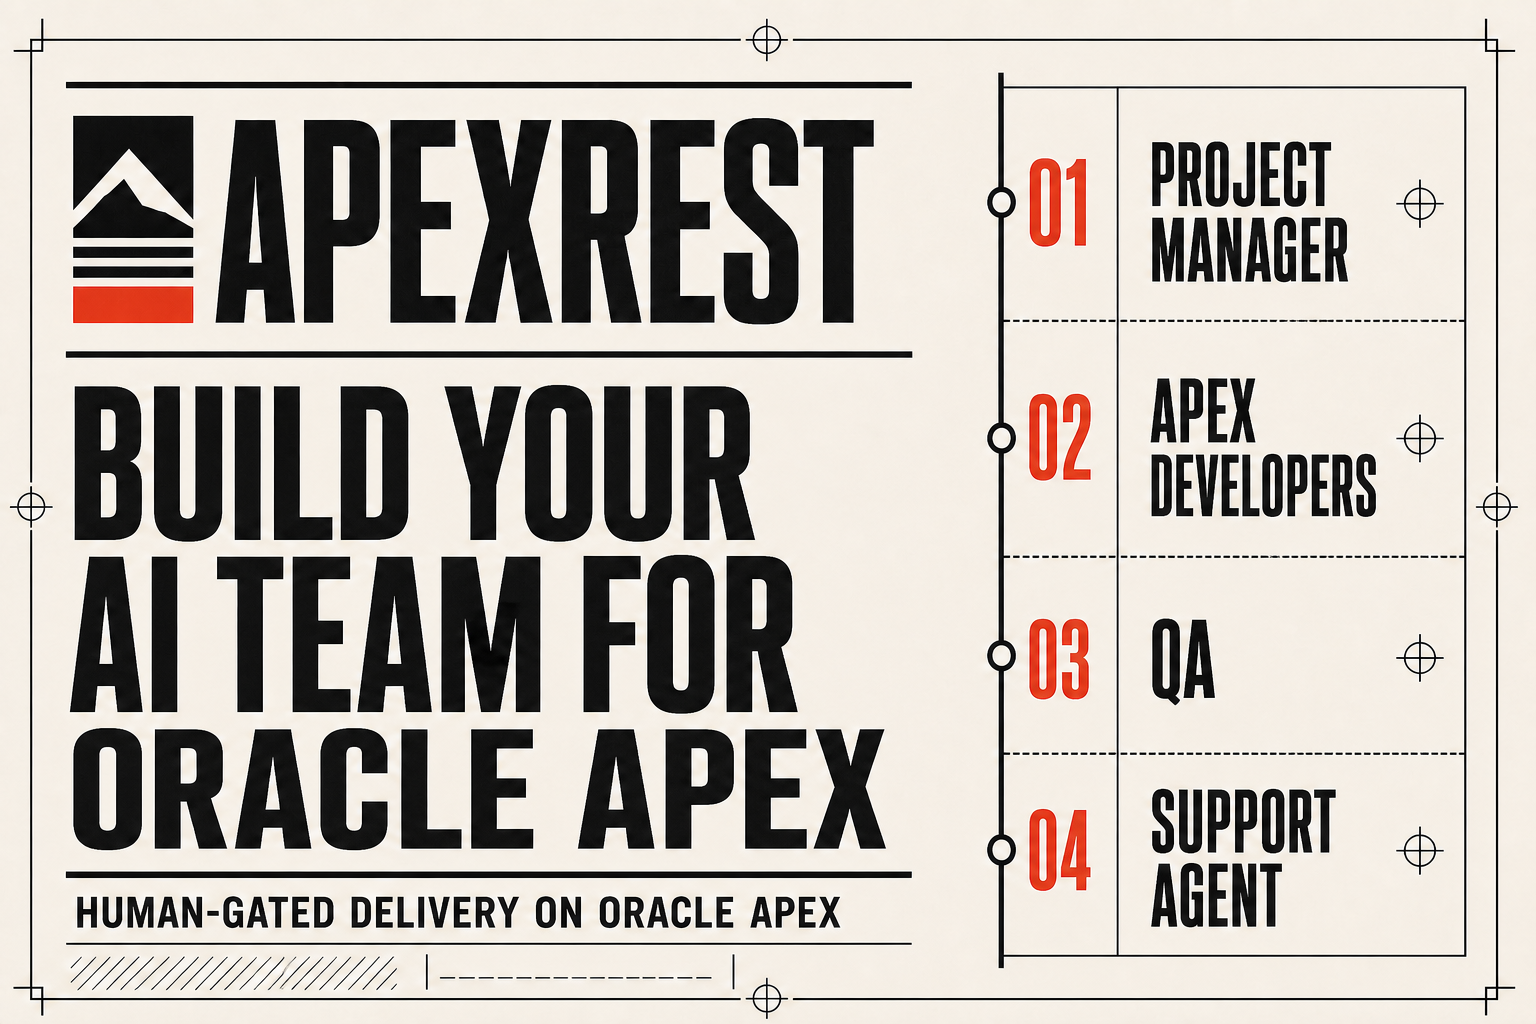
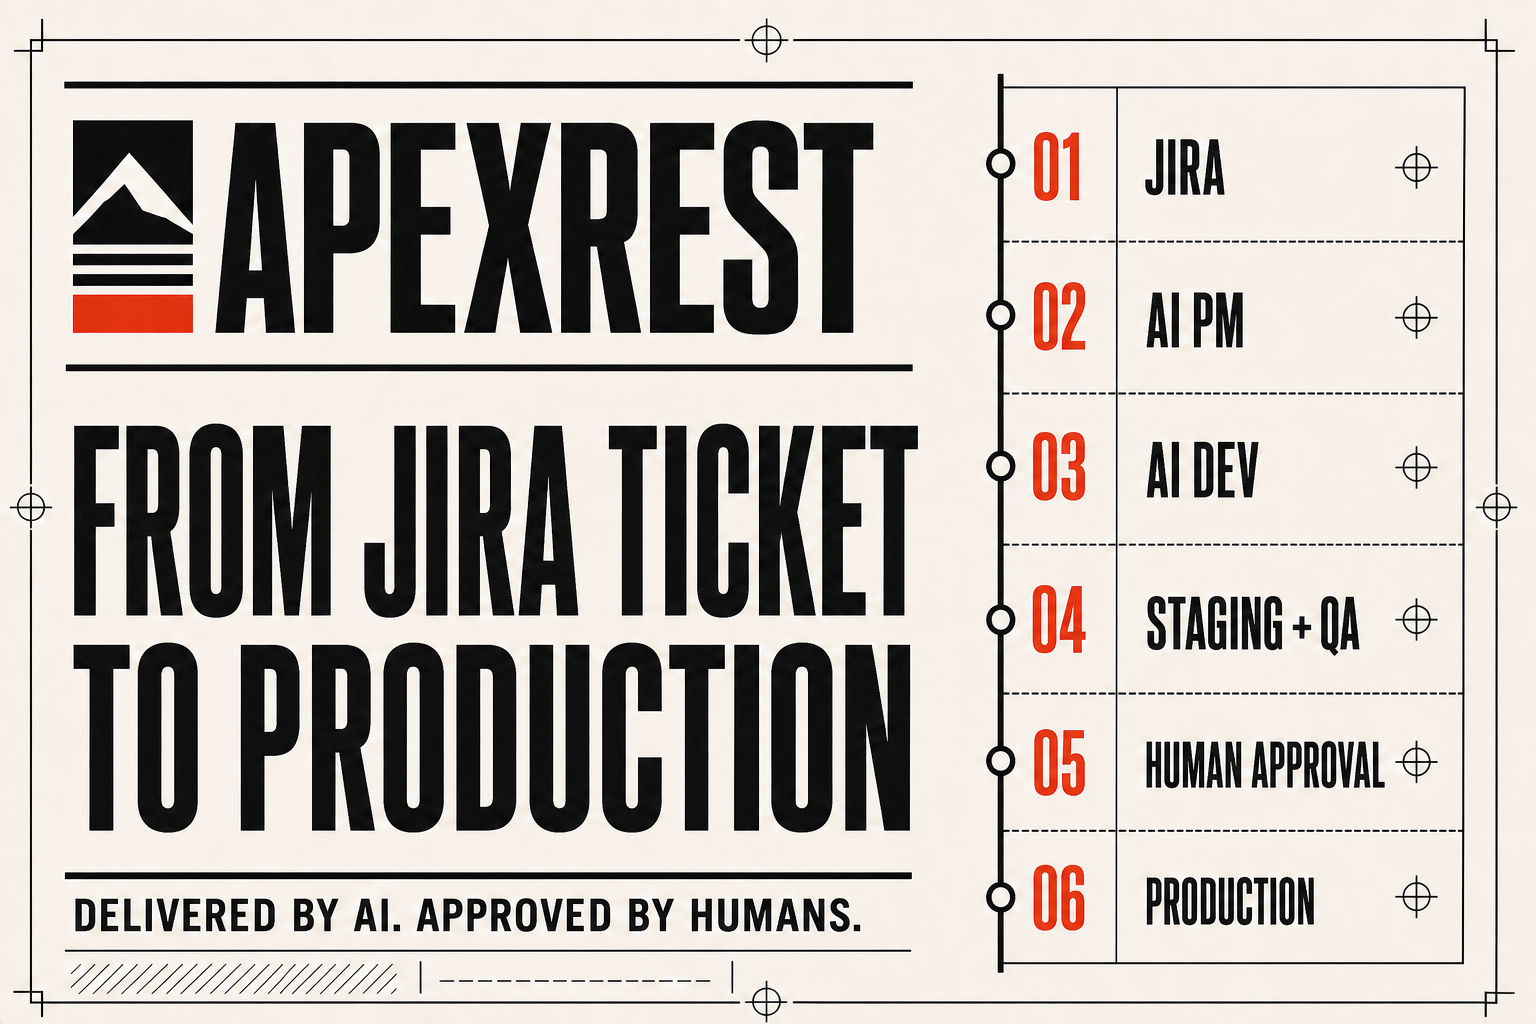
Refocus landing page on Jira-to-production AI delivery

diff --git a/index.html b/index.html
@@ -3,8 +3,8 @@
 <head>
   <meta charset="utf-8">
   <meta name="viewport" content="width=device-width, initial-scale=1">
-  <title>APEXREST — Build your AI team for Oracle APEX</title>
-  <meta name="description" content="APEXREST helps Oracle APEX customers build an AI team with a Project Manager, APEX Developers, QA, and a Support Agent—working through compiler-backed checks and explicit human release gates.">
+  <title>APEXREST — From Jira ticket to production with an AI delivery team</title>
+  <meta name="description" content="Describe an Oracle APEX change in Jira. An AI delivery team builds it, validates it, tests it on staging, and prepares a human-approved production release.">
   <meta name="robots" content="index, follow, max-image-preview:large">
   <meta name="theme-color" content="#f2efe7">
   <link rel="canonical" href="https://apex.rest/">
@@ -12,16 +12,16 @@
   <meta property="og:type" content="website">
   <meta property="og:url" content="https://apex.rest/">
   <meta property="og:site_name" content="APEXREST">
-  <meta property="og:title" content="Build your AI team for Oracle APEX">
-  <meta property="og:description" content="Project Manager. APEX Developers. QA. Support Agent. One AI team, working through compiler-backed checks and explicit human release gates.">
+  <meta property="og:title" content="From Jira ticket to production—with an AI delivery team">
+  <meta property="og:description" content="Deterministic vibe coding for enterprise applications. AI-operated delivery with human-controlled release.">
   <meta property="og:image" content="https://apex.rest/assets/og.png">
   <meta property="og:image:width" content="1536">
   <meta property="og:image:height" content="1024">
   <meta property="og:image:alt" content="APEXREST AI team for Oracle APEX: Project Manager, APEX Developers, QA, and Support Agent">
 
   <meta name="twitter:card" content="summary_large_image">
-  <meta name="twitter:title" content="Build your AI team for Oracle APEX">
-  <meta name="twitter:description" content="Project Manager, APEX Developers, QA, and Support Agent—one AI team with human-gated delivery.">
+  <meta name="twitter:title" content="From Jira ticket to production—with an AI delivery team">
+  <meta name="twitter:description" content="AI-operated Oracle APEX delivery with validation, staging, QA, and human-controlled release.">
   <meta name="twitter:image" content="https://apex.rest/assets/og.png">
 
   <link rel="preconnect" href="https://fonts.googleapis.com">
@@ -36,7 +36,7 @@
     "name": "APEXREST",
     "url": "https://apex.rest/",
     "email": "info@apex.rest",
-    "description": "APEXREST helps Oracle APEX customers build AI teams with Project Manager, APEX Developers, QA, and Support Agent roles, operating through compiler-backed validation and explicit human release gates.",
+    "description": "APEXREST operates AI delivery teams that turn Jira requests into validated Oracle APEX changes, tested on staging and released through explicit human approval gates.",
     "sameAs": [
       "https://github.com/avhrst/pi-apex",
       "https://github.com/avhrst/pi-slack-team"
@@ -55,16 +55,16 @@
       </a>
 
       <nav class="site-nav" id="site-nav" aria-label="Main navigation">
-        <a href="#team">Your AI team</a>
-        <a href="#system">Delivery system</a>
-        <a href="#work">Team work</a>
+        <a href="#trace">How it works</a>
+        <a href="#team">The AI team</a>
+        <a href="#system">Safety gates</a>
         <a href="#proof">Open source</a>
         <a href="#contact" class="nav-cta">Build your team <span aria-hidden="true">↗</span></a>
       </nav>
 
       <div class="header-status" aria-label="Team configuration">
         <span class="status-dot" aria-hidden="true"></span>
-        FOUR-ROLE TEAM
+        JIRA → PRODUCTION
       </div>
 
       <button class="menu-toggle" id="menu-toggle" type="button" aria-expanded="false" aria-controls="site-nav" aria-label="Open navigation">
@@ -78,19 +78,19 @@
       <div class="hero-registration registration-mark" aria-hidden="true">+</div>
       <div class="shell hero-grid">
         <div class="hero-copy">
-          <p class="eyebrow"><span>APEXREST</span> / AI TEAM FOR ORACLE APEX</p>
-          <h1>Build your AI team.<br><em>Keep release human.</em></h1>
-          <p class="hero-lede">APEXREST helps Oracle APEX customers assemble and operate an AI team: Project Manager, APEX Developers, QA, and Support Agent. The team turns business intent into structured APEXlang, works through compiler-backed checks, and stops at explicit human import and release gates. Oracle APEX supplies the production-grade foundation.</p>
+          <p class="eyebrow"><span>APEXREST</span> / DETERMINISTIC VIBE CODING</p>
+          <h1>From Jira ticket to production.<br><em>Delivered by AI. Approved by humans.</em></h1>
+          <p class="hero-lede">Describe the change in plain language and attach screenshots. An AI delivery team analyzes the request, updates your Oracle APEX application, validates and tests it, deploys it to staging, and prepares a controlled production release. Every step is documented. Humans control the critical gates.</p>
 
           <div class="hero-actions">
-            <a class="button button-primary" href="mailto:info@apex.rest?subject=Map%20my%20Oracle%20APEX%20AI%20team&amp;body=Current%20APEX%20work%3A%0ATeam%20or%20backlog%3A%0ASupport%20load%3A%0AFirst%20priority%3A%0A">Map my AI team <span aria-hidden="true">↗</span></a>
-            <a class="button button-secondary" href="#team">Meet the team <span aria-hidden="true">↓</span></a>
+            <a class="button button-primary" href="mailto:info@apex.rest?subject=Automate%20my%20Oracle%20APEX%20delivery&amp;body=Current%20APEX%20application%3A%0ATypical%20Jira%20request%3A%0AStage%20environment%3A%0AFirst%20workflow%20to%20automate%3A%0A">Automate my delivery <span aria-hidden="true">↗</span></a>
+            <a class="button button-secondary" href="#trace">See the workflow <span aria-hidden="true">↓</span></a>
           </div>
 
           <div class="hero-proof" aria-label="Delivery principles">
-            <div><span>01</span><strong>Project managed</strong></div>
-            <div><span>02</span><strong>Compiler checked</strong></div>
-            <div><span>03</span><strong>Human release gate</strong></div>
+            <div><span>01</span><strong>Plain-language Jira intake</strong></div>
+            <div><span>02</span><strong>AI build + QA on staging</strong></div>
+            <div><span>03</span><strong>Human-controlled release</strong></div>
           </div>
         </div>
 
@@ -147,13 +147,13 @@
 
       <div class="verification-strip" aria-label="APEXREST AI team roles">
         <div class="shell verification-strip-inner">
-          <span>PROJECT MANAGER</span>
+          <span>JIRA REQUEST</span>
           <i aria-hidden="true">→</i>
-          <strong>APEX DEVELOPERS</strong>
+          <strong>AI DELIVERY TEAM</strong>
           <i aria-hidden="true">→</i>
-          <span>QA</span>
+          <span>STAGING + QA</span>
           <i aria-hidden="true">→</i>
-          <span>SUPPORT AGENT</span>
+          <span>HUMAN APPROVAL → PRODUCTION</span>
         </div>
       </div>
     </section>
@@ -162,13 +162,13 @@
       <div class="shell">
         <div class="section-intro">
           <p class="section-index">01 / WHY A TEAM</p>
-          <h2>One coding agent is not a delivery team.</h2>
+          <h2>Vibe coding, with an enterprise delivery system around it.</h2>
         </div>
 
         <div class="argument-grid">
           <div class="statement-block">
-            <p>Oracle APEX delivery starts before the build and continues after release. Work must be framed, planned, implemented, verified, approved, and supported.</p>
-            <p class="statement-accent">No single prompt owns every handoff.</p>
+            <p>A Jira ticket written in everyday language becomes scoped work, a validated APEX change, a staging deployment, QA evidence, and a controlled production release.</p>
+            <p class="statement-accent">The agents do the work. Humans retain authority.</p>
           </div>
 
           <div class="comparison-sheet" aria-label="Comparison of a standalone coding agent and an APEXREST AI team">
@@ -207,7 +207,7 @@
 
         <blockquote class="big-quote">
           <span>“</span>
-          The goal is not more chat windows. It is one accountable delivery loop—project managed, built, tested, and supported, with release authority kept <em>human</em>.
+          The goal is not faster code generation. It is a complete, traceable path from a business request to a tested release—with critical authority kept <em>human</em>.
         </blockquote>
       </div>
     </section>
@@ -265,9 +265,9 @@
         <div class="section-intro section-intro-split">
           <div>
             <p class="section-index">03 / THE SYSTEM</p>
-            <h2>Four specialists.<br>One controlled system.</h2>
+            <h2>Specialist agents.<br>One controlled delivery system.</h2>
           </div>
-          <p>APEXREST connects your Project Manager, APEX Developers, QA, and Support Agent to one constrained APEX delivery path. Every role has a defined job, shared context, and a clear boundary.</p>
+          <p>APEXREST connects Jira, an AI Project Manager, AI Developer, AI QA, and release automation to one constrained APEX delivery path. Every role has defined permissions, shared evidence, and a clear boundary.</p>
         </div>
 
         <div class="stack-sheet" aria-label="Three-layer APEXREST architecture">
@@ -277,11 +277,11 @@
               <div><b>CREATIVE LAYER</b><small>Intent and collaboration</small></div>
             </div>
             <div class="layer-nodes">
-              <div class="stack-node"><span>HUMAN</span><b>Slack brief</b><small>Goals + decisions</small></div>
+              <div class="stack-node"><span>HUMAN</span><b>Jira ticket</b><small>Plain language + screenshots</small></div>
               <i class="node-arrow" aria-hidden="true">→</i>
               <div class="stack-node"><span>PINET</span><b>Broker</b><small>Admission + routing</small></div>
               <i class="node-arrow" aria-hidden="true">→</i>
-              <div class="stack-node node-emphasis"><span>TEAM</span><b>Four specialists</b><small>PM · APEX Dev · QA · Support</small></div>
+              <div class="stack-node node-emphasis"><span>TEAM</span><b>Specialist agents</b><small>PM · APEX Dev · QA · Release</small></div>
             </div>
           </article>
 
@@ -325,11 +325,11 @@
         <div class="section-intro section-intro-split trace-intro">
           <div>
             <p class="section-index">04 / THE DELIVERY LOOP</p>
-            <h2>From request to support.<br>Every handoff controlled.</h2>
+            <h2>From Jira to production.<br>Every handoff controlled.</h2>
           </div>
           <div class="slack-brief">
-            <span class="micro-label">#BUILD-WITH-APEXREST</span>
-            <p><b>@APEXREST</b> Add vendor onboarding to our APEX workspace, with approval limits and a complete audit trail.</p>
+            <span class="micro-label">JIRA / APEX-142</span>
+            <p><b>BUSINESS REQUEST</b> Add vendor onboarding with approval limits. Screenshots and acceptance criteria attached.</p>
           </div>
         </div>
 
@@ -337,38 +337,38 @@
           <li>
             <span class="trace-number">01</span>
             <div><span class="trace-verb">INTAKE</span><h3>Frame the work.</h3></div>
-            <p>A human provides the business outcome, users, data boundaries, and operating constraints. The control room verifies who is asking before the mission enters the team.</p>
+            <p>A human describes the change in Jira using everyday language, screenshots, expected behavior, and acceptance criteria.</p>
             <i aria-hidden="true">PASS</i>
           </li>
           <li>
             <span class="trace-number">02</span>
             <div><span class="trace-verb">PLAN</span><h3>Make it buildable.</h3></div>
-            <p>The Project Manager converts the request into scoped work, acceptance criteria, dependencies, decision points, and named owners.</p>
+            <p>The AI Project Manager analyzes the ticket, resolves available context, defines the plan, assigns specialist work, and keeps Jira current.</p>
             <i aria-hidden="true">PASS</i>
           </li>
           <li>
             <span class="trace-number">03</span>
             <div><span class="trace-verb">BUILD</span><h3>Create the application definition.</h3></div>
-            <p>APEX Developers turn requirements and verified schema or API evidence into readable APEXlang—not an unbounded pile of frontend and backend code.</p>
+            <p>The AI Developer exports the existing application, uses verified schema and API context, creates bounded APEXlang changes, validates them, and deploys to staging.</p>
             <i aria-hidden="true">PASS</i>
           </li>
           <li>
             <span class="trace-number">04</span>
             <div><span class="trace-verb">VERIFY</span><h3>Disagree before production does.</h3></div>
-            <p>QA challenges behavior, permissions, edge cases, and acceptance criteria. Local checks, compiler-backed auditing, and Oracle live validation expose invalid assumptions before import.</p>
+            <p>The AI QA opens the staging application in a browser, exercises relevant APIs, checks acceptance criteria and permissions, and returns evidence or failures to Jira.</p>
             <i aria-hidden="true">PASS</i>
           </li>
           <li>
             <span class="trace-number">05</span>
             <div><span class="trace-verb">APPROVE</span><h3>Keep release human.</h3></div>
-            <p>Only after authoritative validation does an import choice appear. An authorized person reviews the exact target and evidence, then decides whether to import and release.</p>
+            <p>A manual QA reviewer inspects the ticket, staging result, and agent evidence. Only an authorized person can approve the production release.</p>
             <i class="hold-stamp" aria-hidden="true">HOLD</i>
           </li>
           <li>
             <span class="trace-number">06</span>
-            <div><span class="trace-verb">SUPPORT</span><h3>Close the loop.</h3></div>
-            <p>The Support Agent triages real-world issues, gathers reproducible evidence, and routes required changes back through planning, build, QA, and the human release gate.</p>
-            <i aria-hidden="true">LOOP</i>
+            <div><span class="trace-verb">RELEASE</span><h3>Deploy the approved change.</h3></div>
+            <p>After approval, the Release Agent deploys the exact reviewed artifact to the named production target, verifies the result, and records the outcome.</p>
+            <i aria-hidden="true">SHIP</i>
           </li>
         </ol>
       </div>
@@ -379,9 +379,9 @@
         <div class="section-intro section-intro-split">
           <div>
             <p class="section-index">05 / YOUR AI TEAM</p>
-            <h2>Four roles.<br>One delivery loop.</h2>
+            <h2>Four roles.<br>One Jira-to-production loop.</h2>
           </div>
-          <p>We configure the team around your Oracle APEX work—not as separate chat windows for you to coordinate, but as specialists with shared context, defined responsibilities, and controlled handoffs.</p>
+          <p>These are not separate chat windows for you to coordinate. The agents share ticket context, evidence, defined responsibilities, and controlled handoffs from intake through release.</p>
         </div>
 
         <div class="roster">
@@ -394,20 +394,20 @@
           <article>
             <span class="roster-id">DEV / 02</span>
             <div class="roster-avatar" aria-hidden="true">AX</div>
-            <h3>APEX Developers</h3>
-            <p>Use verified schema and API context to create readable APEXlang, application components, workflows, business logic, and integrations for review.</p>
+            <h3>APEX Developer</h3>
+            <p>Exports the existing application, uses verified schema and API context, creates readable APEXlang changes, validates them, and deploys to staging.</p>
           </article>
           <article>
             <span class="roster-id">QA / 03</span>
             <div class="roster-avatar" aria-hidden="true">QA</div>
-            <h3>QA</h3>
-            <p>Challenges expected behavior, permissions, edge cases, and business rules. Reviews validation evidence and returns failures to development before release.</p>
+            <h3>QA Agent</h3>
+            <p>Tests the staging application through the browser and APIs, challenges expected behavior and permissions, and records reproducible evidence in Jira.</p>
           </article>
           <article>
-            <span class="roster-id">SUP / 04</span>
-            <div class="roster-avatar" aria-hidden="true">SU</div>
-            <h3>Support Agent</h3>
-            <p>Triages reported issues, gathers reproducible evidence, answers from approved knowledge, and routes required changes back into the managed delivery loop.</p>
+            <span class="roster-id">REL / 04</span>
+            <div class="roster-avatar" aria-hidden="true">RL</div>
+            <h3>Release Agent</h3>
+            <p>Acts only after human approval, deploys the reviewed artifact to the named production target, verifies availability, and records the release outcome.</p>
           </article>
         </div>
       </div>
@@ -484,8 +484,8 @@
       <div class="shell">
         <div class="section-intro">
           <p class="section-index">07 / TEAM WORK</p>
-          <h2>Put the team around the work slowing you down.</h2>
-          <p class="section-lede">Start with an Oracle APEX backlog, delivery bottleneck, or support queue. The team can enter at one point and keep the whole lifecycle connected.</p>
+          <h2>Start with one real Jira ticket.</h2>
+          <p class="section-lede">We map one representative change through the complete agent-operated workflow, define permissions and human gates, and prove the path on your staging environment.</p>
         </div>
 
         <div class="use-case-grid">
@@ -493,8 +493,8 @@
           <article><span>02 / DEV</span><h3>APEX development</h3><p>Build pages, workflows, business rules, integrations, and application changes in readable APEXlang.</p></article>
           <article><span>03 / QA</span><h3>QA &amp; regression</h3><p>Check expected behavior, permissions, edge cases, regressions, and compiler-backed evidence.</p></article>
           <article><span>04 / TEAM</span><h3>Modernization</h3><p>Move fragile spreadsheet, inbox, or legacy processes into a governed Oracle APEX application.</p></article>
-          <article><span>05 / SUP</span><h3>Support triage</h3><p>Classify issues, gather reproducible evidence, answer from approved knowledge, and route changes.</p></article>
-          <article><span>06 / HUMAN</span><h3>Release preparation</h3><p>Present the exact target and validation evidence so an authorized person can decide what ships.</p></article>
+          <article><span>05 / HUMAN</span><h3>Manual QA gate</h3><p>Review the exact staging result and agent evidence before authorizing any production action.</p></article>
+          <article><span>06 / REL</span><h3>Controlled release</h3><p>Deploy only the approved artifact to the named target, verify availability, and record the outcome.</p></article>
         </div>
       </div>
     </section>
@@ -517,10 +517,10 @@
 
     <section class="final-cta" id="contact">
       <div class="shell final-cta-inner">
-        <p class="section-index">BUILD YOUR ORACLE APEX AI TEAM</p>
-        <h2>Start with the work your APEX team cannot get through fast enough.</h2>
-        <p>Bring one application backlog, delivery bottleneck, or support queue. We'll map the Project Manager, APEX Developers, QA, and Support Agent roles; define their permissions and handoffs; and build the first validated workflow with you.</p>
-        <a class="button button-dark" href="mailto:info@apex.rest?subject=Map%20my%20Oracle%20APEX%20AI%20team&amp;body=Current%20APEX%20work%3A%0ATeam%20or%20backlog%3A%0ASupport%20load%3A%0AFirst%20priority%3A%0A">Map my AI team <span aria-hidden="true">↗</span></a>
+        <p class="section-index">AUTOMATE YOUR FIRST DELIVERY LOOP</p>
+        <h2>Bring one Jira ticket. Prove the path to production.</h2>
+        <p>We will map the AI Project Manager, Developer, QA, and Release Agent roles; define their permissions and human approval gates; and run the first validated workflow on your Oracle APEX staging environment.</p>
+        <a class="button button-dark" href="mailto:info@apex.rest?subject=Automate%20my%20Oracle%20APEX%20delivery&amp;body=Current%20APEX%20application%3A%0ATypical%20Jira%20request%3A%0AStage%20environment%3A%0AFirst%20workflow%20to%20automate%3A%0A">Automate my first ticket <span aria-hidden="true">↗</span></a>
         <span class="contact-email">info@apex.rest</span>
       </div>
     </section>
@@ -532,7 +532,7 @@
         <span class="brand-mark" aria-hidden="true"><i>A</i><i>R</i></span>
         <span class="brand-name">APEX<span>REST</span></span>
       </a>
-      <p>AI teams for Oracle APEX.<br>Human-gated delivery.</p>
+      <p>From Jira ticket to production.<br>AI-operated. Human-controlled.</p>
       <div class="footer-links">
         <a href="https://github.com/avhrst/pi-apex" target="_blank" rel="noopener noreferrer">pi-apex ↗</a>
         <a href="https://github.com/avhrst/pi-slack-team" target="_blank" rel="noopener noreferrer">pi-slack-team ↗</a>
